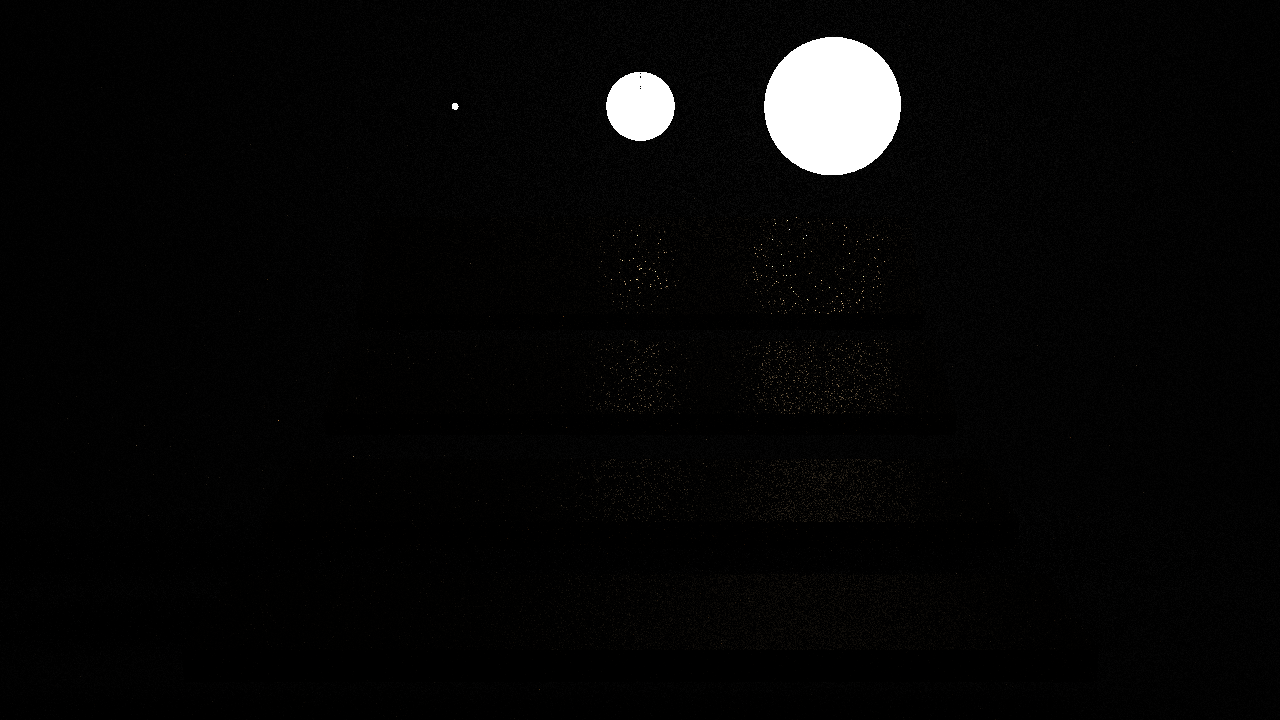
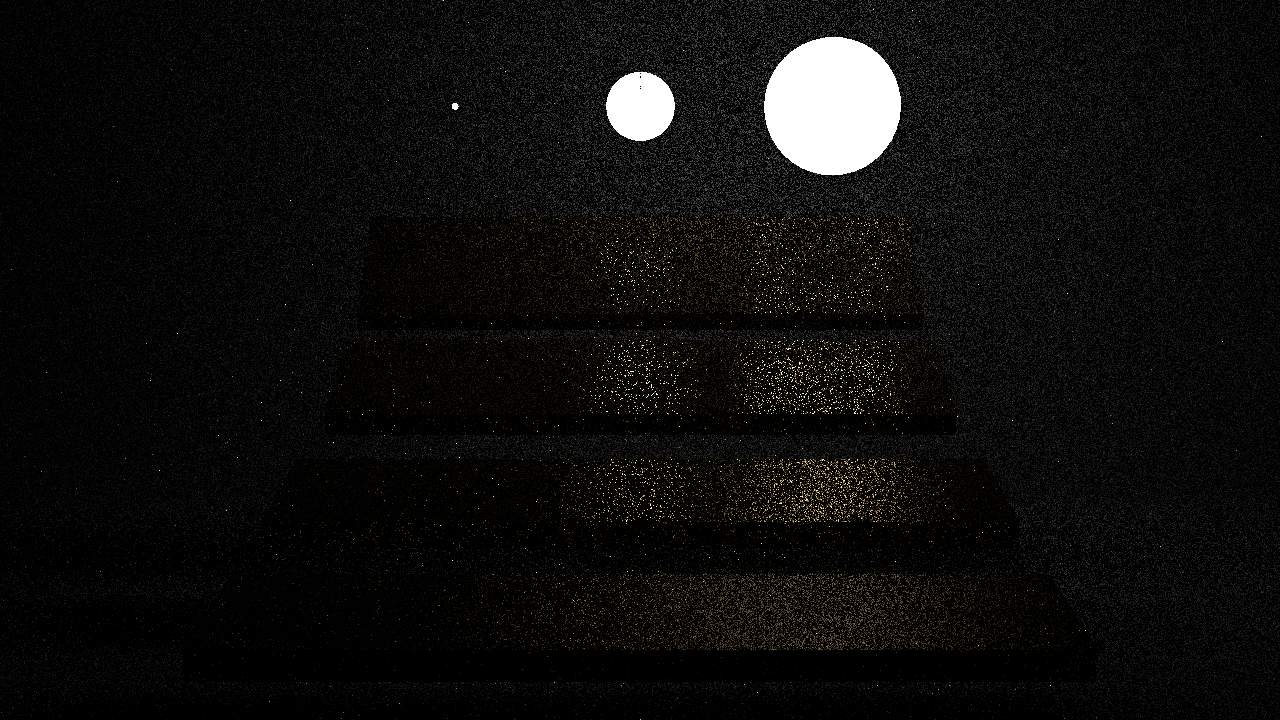
temp

Changed region(s): [[0.25, 0.0, 1.0, 0.8861], [0.4375, 0.7944, 0.7812, 0.9167]]

diff --git a/cg-final/render/ray_tracer.hpp b/cg-final/render/ray_tracer.hpp
@@ -31,7 +31,7 @@ public:
 
 	glm::vec3 Shade(Ray const& ray, Hit const& hit, int bounces, float weight, float indexOfRefraction) const
 	{
-		if (bounces > max_bounces || weight < cutoff_weight) {
+		if (bounces > max_bounces) {
 			glm::vec3 zero(0, 0, 0);
 			return zero;
 		}
@@ -47,12 +47,14 @@ public:
 
 			auto light_weight = rand() / float(RAND_MAX);
 			auto k = choose_light(light_weight);
+			auto pdf_light = (float)0.f;
+			auto pdf_scene = 0.5f / M_PI;
+			float w1, w2;
 			{
 				// compute light
 				glm::vec3 ldir, clit;
 				float Dis2Lit;
 				scene->getIllumination(k, pin, ldir, clit, Dis2Lit);
-				clit = (clit / powf(Dis2Lit, 2)) * scene->light_areas[k];
 
 				Ray ray2(pin, ldir);
 				Hit hit2(MAXnum, scene->bg_mat, glm::vec3(0, 0, 0));
@@ -60,15 +62,22 @@ public:
 				bool intersect2 = scene->group_intersect_grid(ray2, hit2, epsilon);
 
 				if (intersect2 && glm::dot(hit2.getNormal(), ldir) < 0.f && posive(hit2.getT() - Dis2Lit) < 0.0001) {
-					color += (hit.getMaterial())->shade(ray, hit, ldir, clit);
+					auto cos_theta = glm::dot((-1.f) * ldir, hit2.getNormal());
+					auto area = scene->light_areas[k];
+					pdf_light = powf(Dis2Lit, 2) / cos_theta / area;
+					pdf_scene = glm::dot(ldir, hit.getNormal()) / M_PI;
+					w1 = powf(pdf_light, 2) / (powf(pdf_light, 2) + powf(pdf_scene, 2));
+
+					color += w1 * (hit.getMaterial())->shade(ray, hit, ldir, clit) / pdf_light;
 				}
 			}
 
 			auto next_dir = glm::vec3();
 			{
 				auto r1 = rand() / float(RAND_MAX);
-				auto r2 = rand() / float(RAND_MAX);
-				next_dir = glm::vec3(sqrtf(1 - powf(r1, 2)) * cosf(2 * M_PI * r2), sqrtf(1 - powf(r1, 2)) * sinf(2 * M_PI * r2), r1);
+				auto theta = rand() / float(RAND_MAX);
+				auto circle_sample = glm::vec2(sqrtf(r1) * cosf(2 * M_PI * theta), sqrtf(r1) * sinf(2 * M_PI * theta));
+				next_dir = glm::vec3(circle_sample.x, circle_sample.y, sqrtf(1 - circle_sample.x * circle_sample.x - circle_sample.y * circle_sample.y));
 				next_dir = glm::normalize(next_dir);
 
 				auto z = glm::vec3(0, 0, 1);
@@ -81,6 +90,8 @@ public:
 				auto rot_matrix = glm::mat3x3{ new_x,new_y,new_z };
 
 				next_dir = rot_matrix * next_dir;
+				
+				pdf_scene = glm::dot(next_dir, hit.getNormal()) / M_PI;
 			}
 
 			Ray next_ray(pin, next_dir);
@@ -93,13 +104,20 @@ public:
 					auto next_shade = Shade(next_ray, next_hit, bounces + 1, weight, indexOfRefraction);
 					color += (hit.getMaterial())->shade(ray, hit, next_dir, next_shade) * (2.f * M_PI);
 				}
+				else if (glm::dot(next_ray.getDirection(), next_hit.getNormal()) < 0) {
+					auto next_shade = next_hit.getMaterial()->radiance;
+					auto Dis2Lit = glm::length(next_hit.getIntersectionPoint() - hit.getIntersectionPoint());
+					pdf_light = powf(Dis2Lit, 2) / glm::dot((-1.f) * next_ray.getDirection(), next_hit.getNormal()) / scene->compute_area(*next_hit.hit_triangle);
+					w2 = powf(pdf_scene, 2) / (powf(pdf_light, 2) + powf(pdf_scene, 2));
+					color += w2 * (hit.getMaterial())->shade(ray, hit, next_dir, next_shade) / pdf_scene;
+				}
 			} else {
 				color += scene->bg_color;
 			}
 			return color;
 		} 
 		else {
-			if (glm::dot(ray.getDirection(), hit.getNormal()) <= 0 && bounces == 0) {
+			if (glm::dot(ray.getDirection(), hit.getNormal()) <= 0) {
 				return hit.getMaterial()->radiance;
 			}
 			else {
@@ -178,6 +196,7 @@ public:
 private:
 	auto choose_light(float light_weight) const -> int
 	{
+		light_weight *= scene->area_sum;
 		for (auto i = 0; i < scene->light_triangles.size(); i++) {
 			if (light_weight <= scene->light_weight_prefix_sum[i])
 				return i;

diff --git a/cg-final/scene/scene_parser.hpp b/cg-final/scene/scene_parser.hpp
@@ -40,7 +40,7 @@ struct Scene_Parser
         distanceToLight = glm::length(dir);
         dir = glm::normalize(dir);
 
-        col = light_mat->radiance * glm::dot((-1.f) * dir, light.get_normal(sample_point));
+        col = light_mat->radiance;
     }
 
     bool group_intersect(const Ray& r, Hit& h, float tmin) {
@@ -81,16 +81,12 @@ struct Scene_Parser
 
     void init_light_weight() 
     {
-        float area_sum = 0.f;
+        area_sum = 0.f;
         for (auto& lit : light_triangles) {
             auto lit_a = compute_area(lit);
             light_areas.push_back(lit_a);
             area_sum += lit_a;
-        }
-        float prefix_sum = 0.f;
-        for (auto& lit_a : light_areas) {
-            prefix_sum += lit_a;
-            light_weight_prefix_sum.push_back(prefix_sum / area_sum);
+            light_weight_prefix_sum.push_back(area_sum);
         }
     }
 
@@ -104,10 +100,21 @@ struct Scene_Parser
     std::vector<Material*> materials;
     std::vector<Triangle> light_triangles;
     std::vector<float> light_areas;
-    std::vector<float> light_weight_prefix_sum;
+    std::vector<float> light_weight_prefix_sum; 
+    float area_sum;
     std::vector<Material*> light_materials;
     Background_Material* bg_mat;
     glm::vec3 bg_color;
+
+    auto compute_area(Triangle const& tri) const -> float
+    {
+        auto a = glm::distance(tri.position[0], tri.position[1]);
+        auto b = glm::distance(tri.position[1], tri.position[2]);
+        auto c = glm::distance(tri.position[2], tri.position[0]);
+        auto p = (a + b + c) / 2.f;
+        auto res = sqrtf(p * (p - a) * (p - b) * (p - c));
+        return res;
+    }
 
 private:
     Bounding_Box *bbox;
@@ -117,15 +124,6 @@ private:
         auto t = rand() / float(RAND_MAX);
         auto s = rand() / float(RAND_MAX);
         glm::vec3 res = (1 - sqrtf(t)) * tri.position[0] + (1 - s) * sqrtf(t) * tri.position[1] + s * sqrtf(t) * tri.position[2];
-        return res;
-    }
-    auto compute_area(Triangle const& tri) const -> float
-    {
-        auto a = glm::distance(tri.position[0], tri.position[1]);
-        auto b = glm::distance(tri.position[1], tri.position[2]);
-        auto c = glm::distance(tri.position[2], tri.position[0]);
-        auto p = (a + b + c) / 2.f;
-        auto res = sqrtf(p * (p - a) * (p - b) * (p - c));
         return res;
     }
 };

diff --git a/cg-final/cg-final.cpp b/cg-final/cg-final.cpp
@@ -68,10 +68,18 @@ int main()
             }
 
             color = glm::clamp(color, glm::vec3(0.f), glm::vec3(1.f));
-
-            out_data[3 * (width * (height - 1 - j) + i) + 0] = (unsigned char)((int)(255 * powf(color.r, 1 / 2.2)));
-            out_data[3 * (width * (height - 1 - j) + i) + 1] = (unsigned char)((int)(255 * powf(color.g, 1 / 2.2)));
-            out_data[3 * (width * (height - 1 - j) + i) + 2] = (unsigned char)((int)(255 * powf(color.b, 1 / 2.2)));
+            auto to_srgb = [](float linear) -> float {
+                float s;
+                if (linear <= 0.0031308) {
+                    s = linear * 12.92;
+                } else {
+                    s = 1.055 * powf(linear, 1.0 / 2.4) - 0.055;
+                }
+                return s;
+            };
+            out_data[3 * (width * (height - 1 - j) + i) + 0] = (unsigned char)((int)(255 * to_srgb(color.r)));
+            out_data[3 * (width * (height - 1 - j) + i) + 1] = (unsigned char)((int)(255 * to_srgb(color.g)));
+            out_data[3 * (width * (height - 1 - j) + i) + 2] = (unsigned char)((int)(255 * to_srgb(color.b)));
             
 		}
 	}

diff --git a/cg-final/render/hit.hpp b/cg-final/render/hit.hpp
@@ -2,6 +2,7 @@
 #include "ray.hpp"
 
 class Material;
+class Triangle;
 
 // ====================================================================
 // ====================================================================
@@ -32,6 +33,8 @@ public:
     t = _t; material = m; normal = n; 
     intersectionPoint = ray.pointAtParameter(t); 
   }
+
+  Triangle* hit_triangle;
 
 private: 
 

diff --git a/cg-final/scene/grid.hpp b/cg-final/scene/grid.hpp
@@ -192,8 +192,8 @@ public:
 		bb = b;
 		glm::vec3 v0, v1;
 		b->get(v0, v1);
-		v0 -= epsilon2;
-		v1 += epsilon2;
+		v0 -= 0.1f;
+		v1 += 0.1f;
 		bb->set(v0, v1);
 		lx = 1.0 * (v1.x - v0.x) / _nx;
 		ly = 1.0 * (v1.y - v0.y) / _ny;

diff --git a/cg-final/scene/triangle.cpp b/cg-final/scene/triangle.cpp
@@ -44,6 +44,7 @@ bool Triangle::intersect(const Ray &r, Hit &h, float tmin) {
 			auto pin = r.pointAtParameter(t);
 			auto norm = get_normal(pin);
 			h.set(t, mat, norm, r);
+			h.hit_triangle = this;
 		}
 		state = true;
 	}
